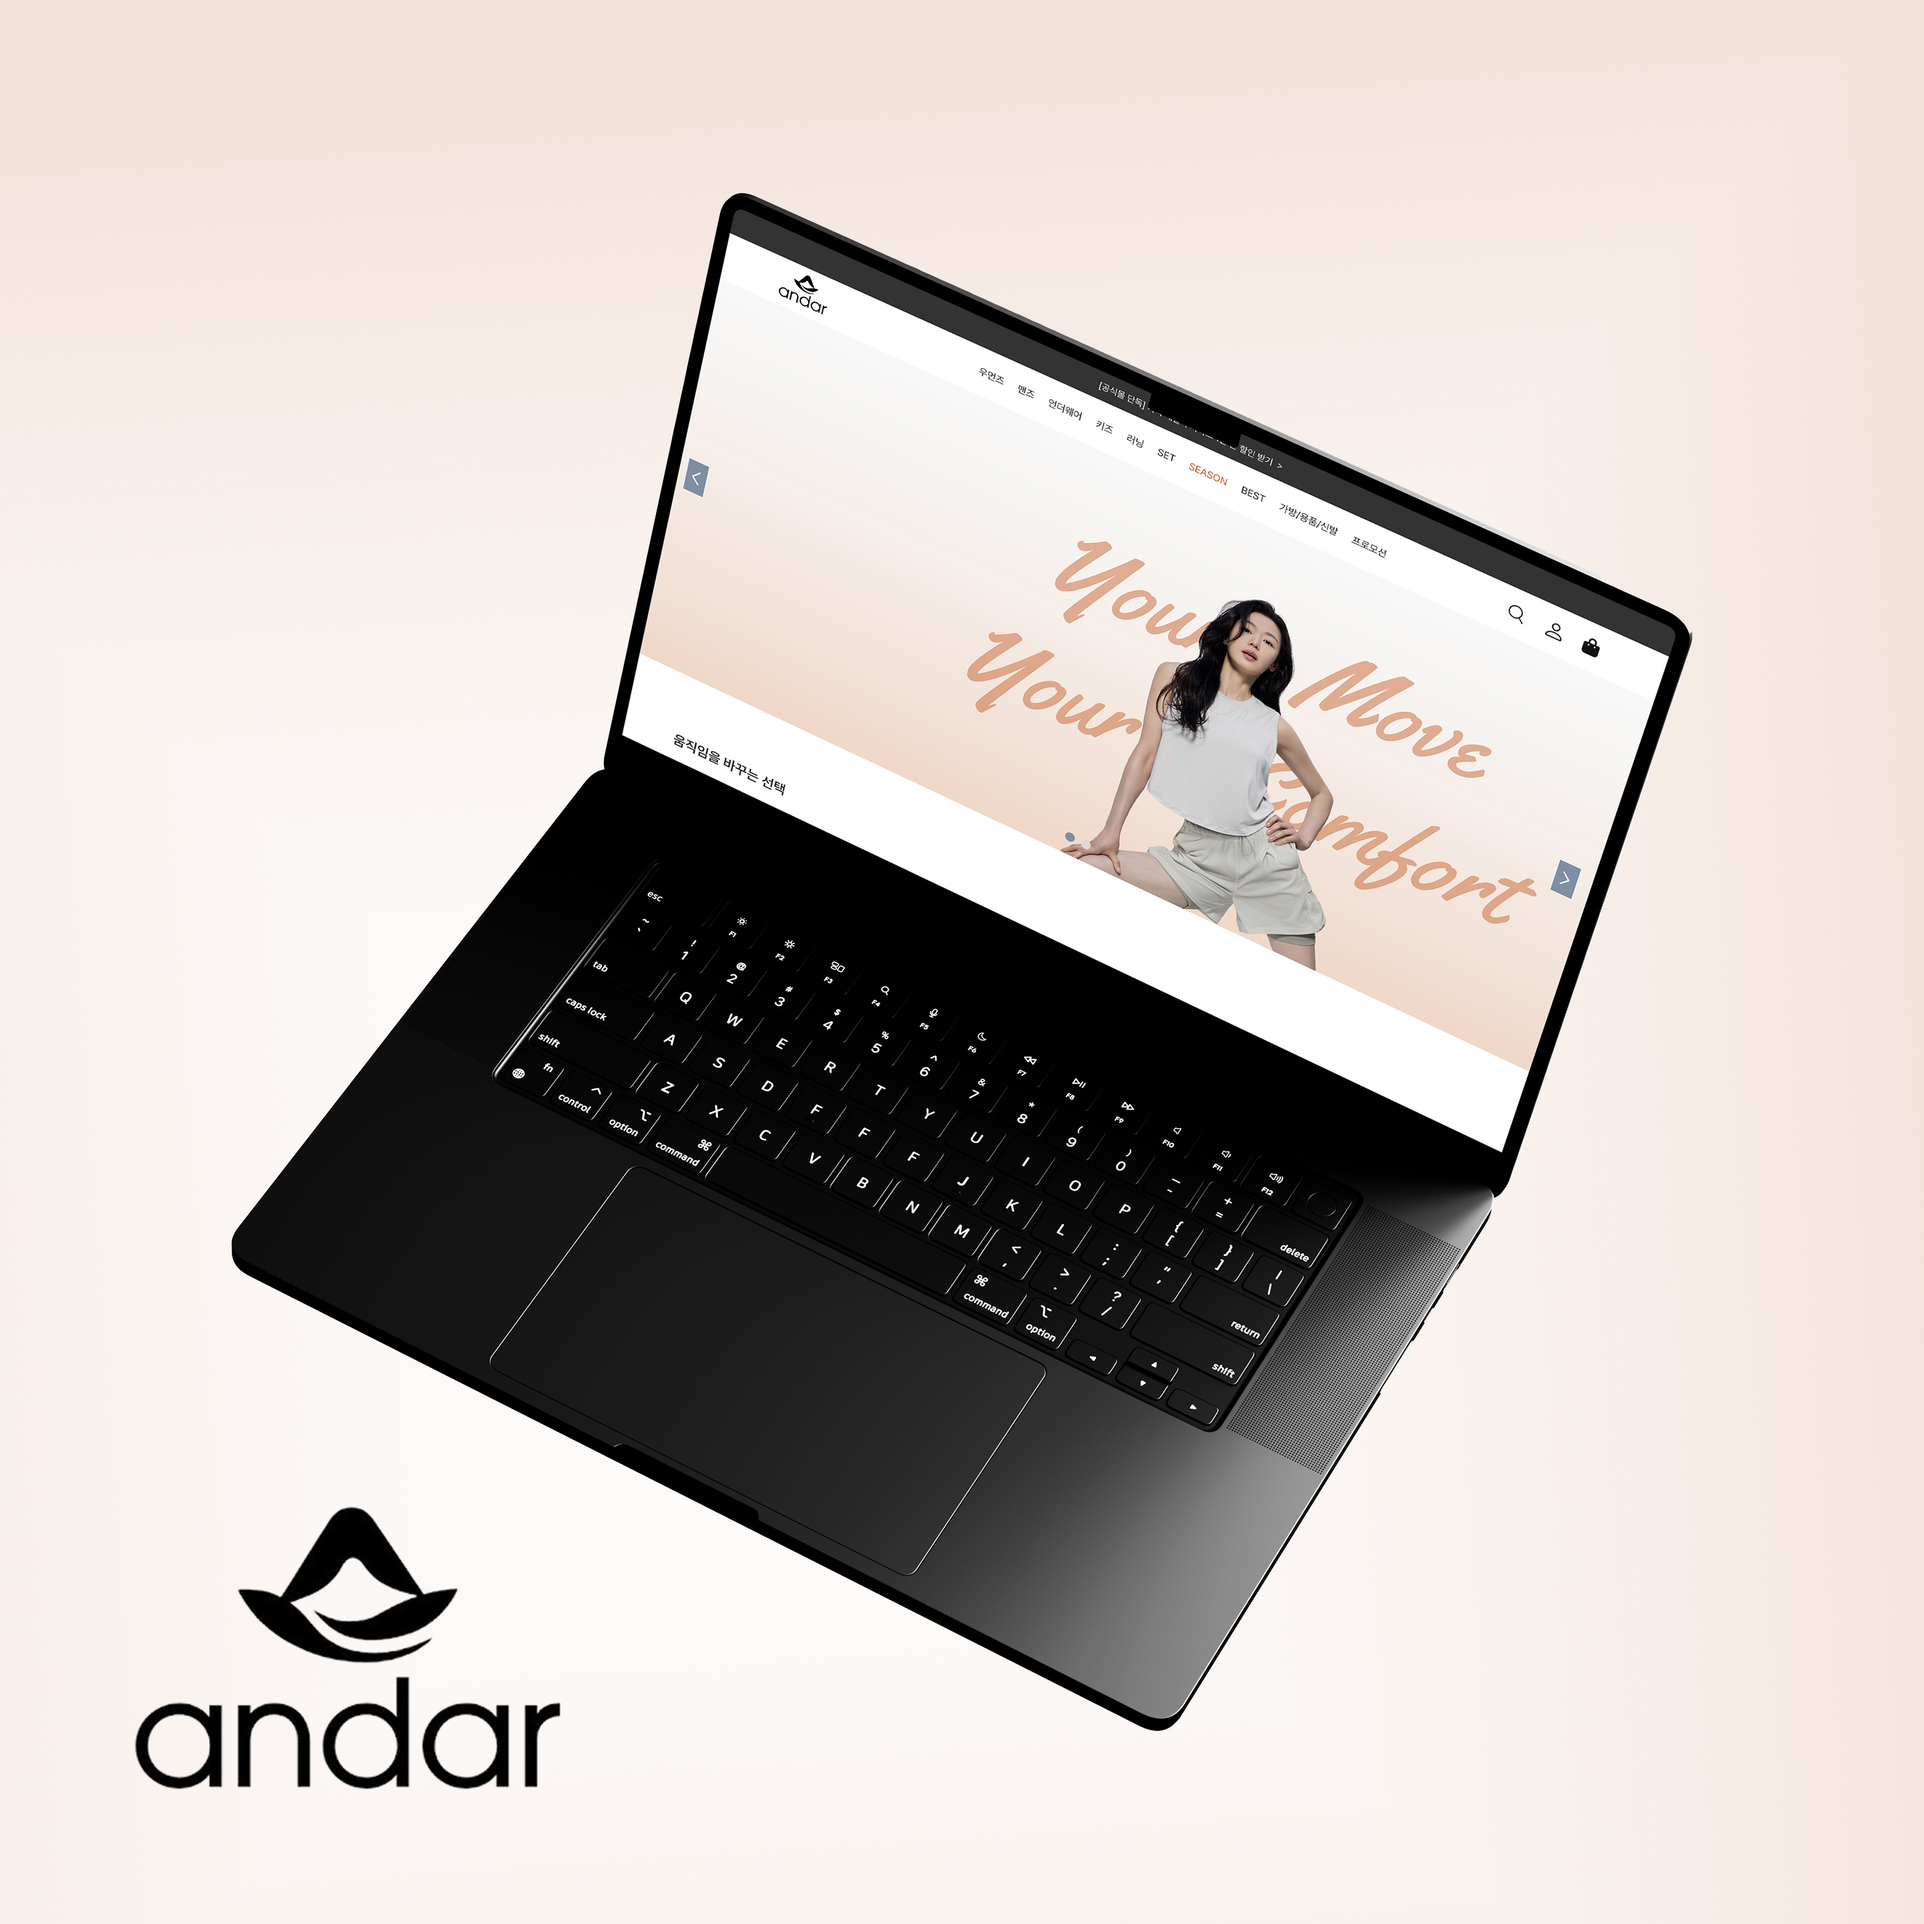
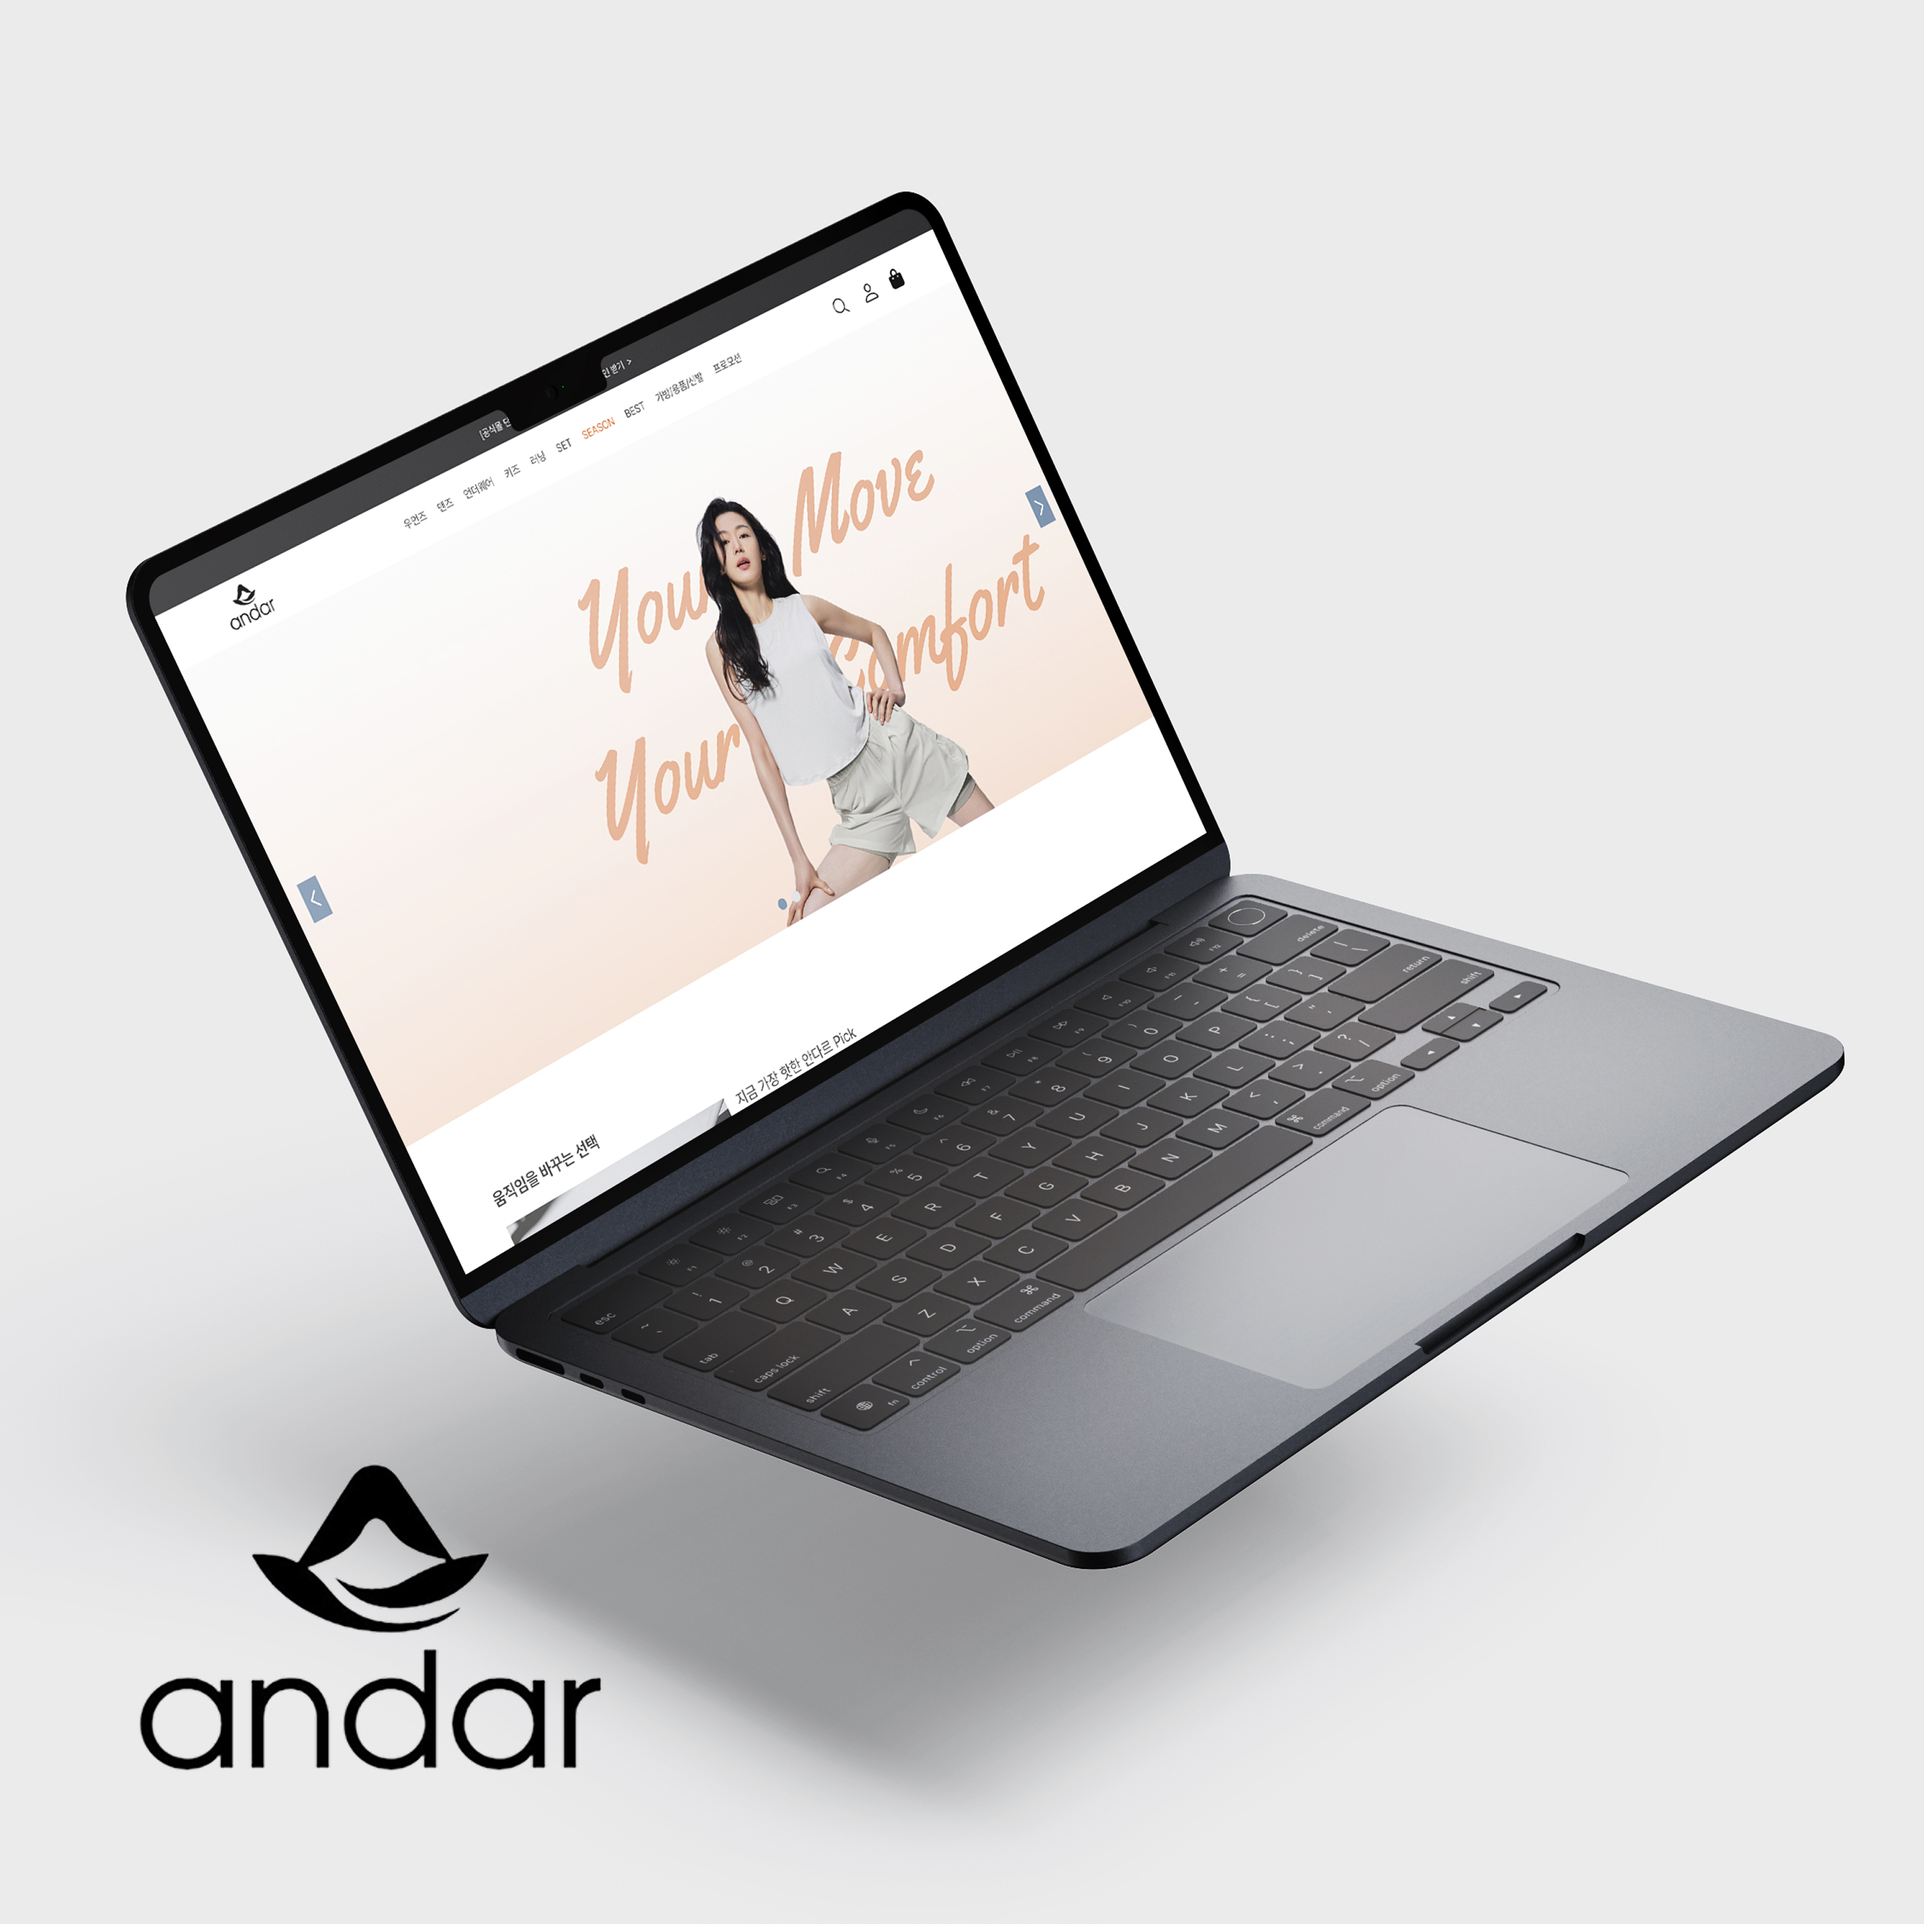
251023-1
배너, 썸네일 수정

diff --git a/css/styles.css b/css/styles.css
@@ -7390,8 +7390,7 @@ textarea.form-control-lg {
 }
 
 .bg-primary {
-  /* background-color: #1abc9c !important; */
-  background: url(../assets/img/ny_banner_03.jpg) no-repeat center center; /*메인배너 이미지*/
+  background: url(../assets/img/ny_banner.jpg) no-repeat center; /*메인배너 이미지*/
 }
 
 .bg-secondary {
@@ -10949,10 +10948,12 @@ html {
   color: #6c757d;
 }
 
+/* 📌 배너글
 .masthead {
   padding-top: calc(6rem + 74px);
   padding-bottom: 6rem;
 }
+
 .masthead .masthead-heading {
   font-size: 2.75rem;
   line-height: 2.75rem;
@@ -10960,38 +10961,50 @@ html {
 .masthead .masthead-subheading {
   font-size: 1.25rem;
 }
+
 .masthead .masthead-avatar {
   width: 15rem;
 }
+*/
 
 header.masthead {
   position: relative;
-  height: 100vh;            /* 화면 꽉 차게 */
+  height: 100vh; /* 화면 꽉 차게 */
 }
 
+
+/* 📌 배너글
 header.masthead .masthead-content {
   position: absolute;
-  bottom: 40px;             /* 아래 여백 */
-  left: 40px;               /* 왼쪽 여백 */
+  bottom: 40px;            
+  left: 40px;               
   text-align: left;
-  color: #fff;              /* 흰 글씨 */
-}
+  color: #fff;              
+} */
 
 
 @media (min-width: 992px) {
   .masthead {
+    /* 풀페이지 유지 위해 패딩 제거 (원본 보존)
     padding-top: calc(6rem + 104px);
     padding-bottom: 6rem;
+    */
     height:100vh;
   }
+
+  /*
   .masthead .masthead-heading {
     font-size: 4rem;
     line-height: 3.5rem;
   }
   .masthead .masthead-subheading {
     font-size: 1.5rem;
-  }
+  }*/
 }
+
+
+
+
 .portfolio .portfolio-item {
   cursor: pointer;
   position: relative;
@@ -11006,7 +11019,7 @@ header.masthead .masthead-content {
   left: 0;
   transition: all 0.2s ease-in-out;
   opacity: 0;
-  background-color: rgba(167, 210, 252, 0.9); /*썸네일 마우스 호버 시 색상*/
+  background-color: rgba(87, 97, 255, 0.8); /*썸네일 마우스 호버 시 색상*/
 }
 .portfolio .portfolio-item .portfolio-item-caption:hover {
   opacity: 1;

diff --git a/index.html b/index.html
@@ -42,11 +42,11 @@
         </nav>
         <!-- Masthead-->
         <header class="masthead bg-primary text-white">
-        <div class="container masthead-content">                
-                <!-- Masthead Heading-->
+        <div class="container masthead-content">    
+                <!-- 📌 배너 글 Masthead Heading/Subheading
                 <h1 class="masthead-heading text-uppercase mb-0">Portfolio </h1>
-                <!-- Masthead Subheading-->
                 <p class="masthead-subheading font-weight-light mb-0">UI/UX Designer</p>
+                -->
             </div>
         </header>
 
